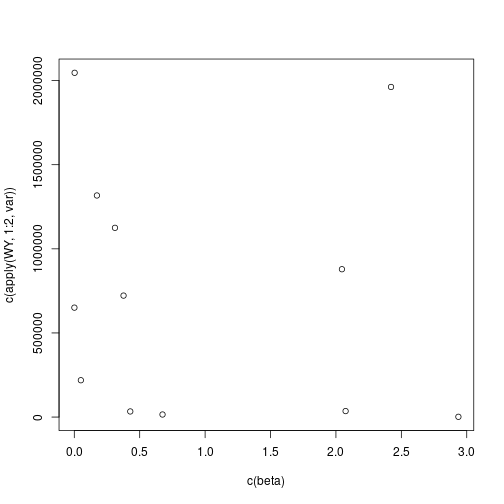
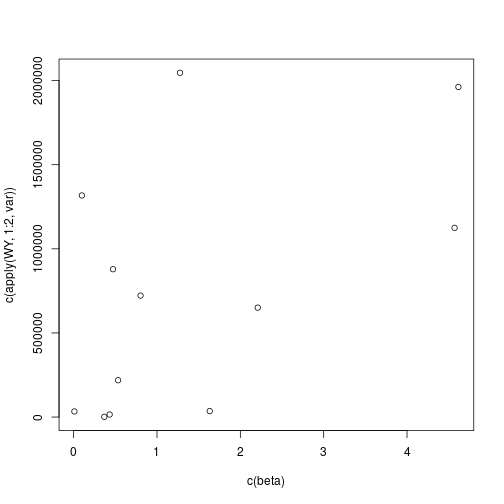
No information

diff --git a/README.tex.md b/README.tex.md
@@ -330,15 +330,8 @@ The Census AK estimator of the total of employed and unemployed computed with th
 
 ```r
 Y_census_AK.e<-arrayproduct::"%.%"(Wak.e,Y[,,"e"],
-           I_A=list(c=integer(0),n=c("y2","m2"),p=c("m1","rg1")),
+           I_A=list(c=integer(0),n=c("m2"),p=c("m1","rg1")),
            I_B=list(c=integer(0),p=c("m","hrmis"),q=integer(0)))
-```
-
-```
-## Error in aperm.default(A, c(n, p)): 'perm' is of wrong length 4 (!= 3)
-```
-
-```r
 Y_census_AK.u<-arrayproduct::"%.%"(Wak.u,Y[,,"u"],
                                    I_A=list(c=integer(0),n="m2",p=c("m1","rg1")),
                                    I_B=list(c=integer(0),p=c("m","hrmis"),q=integer(0)))
@@ -348,10 +341,6 @@ The corresponding unemployment rate time series can be obtained by the ratio :
 
 ```r
 U_census_AK<-Y_census_AK.e/(Y_census_AK.e+Y_census_AK.u)
-```
-
-```
-## Error in eval(expr, envir, enclos): object 'Y_census_AK.e' not found
 ```
 
 
@@ -365,9 +354,7 @@ We plot the Direct estimate vs the AK estimate:
 ggplot(data=reshape2::melt(cbind(Direct=U,Composite=U_census_AK)),aes(x=as.Date(paste0(Var1,"01"),"%Y%m%d"),y=value,group=Var2,color=Var2))+geom_line()+xlab("")+ylab("")+ggtitle("Direct and Composite estimates")
 ```
 
-```
-## Error in cbind(Direct = U, Composite = U_census_AK): object 'U_census_AK' not found
-```
+![plot of chunk unnamed-chunk-15](figure/unnamed-chunk-15-1.png)
 
 If we want to get the whole $W$ matrix, we can use the function
 'W.multi.ak':
@@ -387,20 +374,13 @@ and the estimates total of employed, unemployed and not in the labor force are o
 
 
 ```r
-Y_census_AK<-arrayproduct::"%.%"(Wak,X,I_A=list(c=integer(0),n="m2",p=c("m1","rg1")),I_B=list(c=integer(0),p=c("m","hrmis"),q="employmentstatus"))
-```
-
-```
-## Error in aperm.default(A, c(n, p)): 'perm' is of wrong length 3 (!= 4)
-```
-
-```r
+Y_census_AK<-arrayproduct::"%.%"(Wak,Y,I_A=list(c="ak",n=c("m2"),p=c("m1","rg1")),I_B=list(c="employmentstatus",p=c("m","hrmis"),q=integer(0)))
 U_census_AK2<-Yc2[,"e"]/(Yc2[,"e"]+Yc2[,"u"])
 any(abs(U_census_AK-U_census_AK)>1e-3)
 ```
 
 ```
-## Error in eval(expr, envir, enclos): object 'U_census_AK' not found
+## [1] FALSE
 ```
 
 
